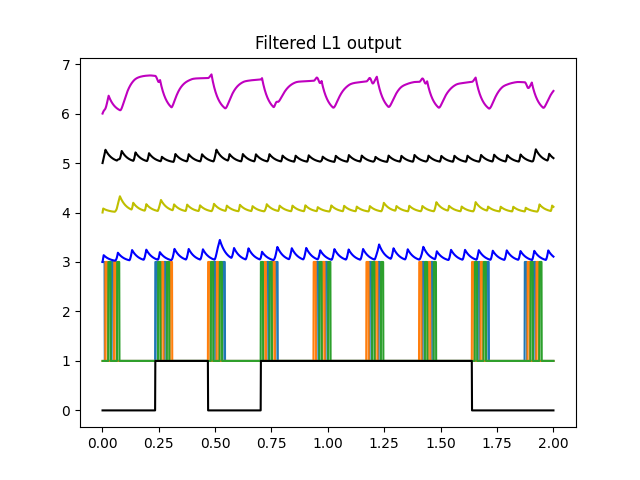
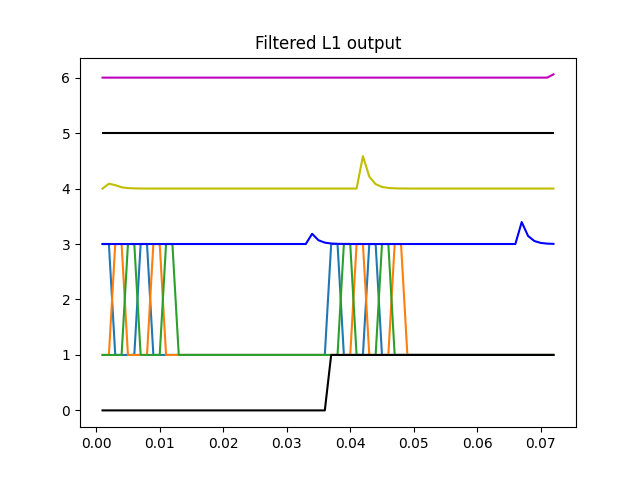
learning

diff --git a/three-layers-feedback.py b/three-layers-feedback.py
@@ -16,7 +16,7 @@ def preset_timing_plot():
     plt.rcdefaults()
     fig, ax = plt.subplots()
     
-    people = ('Sim dt', 'Pulse Time', 'Pulse Spacing', 'Rotation Time', 'Label Time', 'L1 Tau RC', 'L1 Tau Ref', 
+    people = ('Sim dt', 'Pulse Length', 'Pulse Gap', 'Rotation Time', 'Label Time', 'L1 Tau RC', 'L1 Tau Ref', 
     'L2 Tau RC', 
               "L2 Tau Ref", 
               "L3 Tau RC", "L3 Tau REf")
@@ -26,8 +26,8 @@ def preset_timing_plot():
     lbs = [1,2,3,4,5,6,7,8,9,10]
     #performance = 3 + 10 * np.random.rand(len(people))
     performance[0] = sim.dt
-    performance[1] = pt
-    performance[2] = 0.0
+    performance[1] = (pt*pulse_length)
+    performance[2] = (pt*pulse_gap)
     performance[3] = ts*pt
     performance[4] = label_length*pt
     performance[5] = layer1.neuron_type.tau_rc
@@ -43,8 +43,64 @@ def preset_timing_plot():
     ax.invert_yaxis()  # labels read top-to-bottom
     ax.set_xlabel('Time (s)')
     ax.set_title('Preset Timing Parameters')
+    plt.tight_layout() 
+    plt.savefig('fig/preset_timing_parameters/preset_timing_parmeters.png')
 
-    plt.savefig('fig/preset_timing_parameters/preset_timing_parmeters_pt_eq_'+str(pt)[0:4]+'.png')
+def plot_data(q):
+    plt.figure()
+    plt.title("Filtered L1 output")
+    # print(np.shape(sim.data[p_recall][test][0:,0:1]), np.shape(sim.data[p_values][test][0:,0:1]))
+    # plt.plot(t, sim.data[p_recall][0:,0:1])# - sim.data[p_values][0:,0:1])
+
+    plt.plot(t, sim.data[input_probe] + 2)
+    plt.plot(t, sim.data[p_keys] + 0, color="black")
+    print(np.shape(sim.data[filteredl1]))
+    plt.plot(t, sim.data[filteredl1][0:, 0:1] + 3, color="b")
+    plt.plot(t, sim.data[filteredl1][0:, 1:2] + 4, color="y")
+    plt.plot(t, sim.data[filteredl1][0:, 2:3] + 5, color="k")
+    plt.plot(t, sim.data[filteredl1][0:, 3:4] + 6, color="m")
+    plt.savefig('fig/3layersfeedbck_neuronsl1_4.png')
+    #    plt.plot(t, sim.data[filtered][0:, 4:5] + 7, color="r")
+    #    plt.plot(t, sim.data[filtered][0:, 5:6] + 8, color="g")
+    #    plt.plot(t, sim.data[filtered][0:, 6:7] + 9, color="#aabbcc")
+    plt.close()
+    plt.figure()
+    plt.title("Filtered L2 output")
+    # print(np.shape(sim.data[p_recall][test][0:,0:1]), np.shape(sim.data[p_values][test][0:,0:1]))
+    # plt.plot(t, sim.data[p_recall][0:,0:1])# - sim.data[p_values][0:,0:1])
+    plt.plot(t, sim.data[input_probe] + 2)
+    plt.plot(t, sim.data[p_keys] + 0, color="black")
+    print(np.shape(sim.data[filteredl2]))
+    plt.plot(t, sim.data[filteredl2][0:, 0:1] + 3, color="b")
+    plt.plot(t, sim.data[filteredl2][0:, 1:2] + 4, color="y")
+    plt.plot(t, sim.data[filteredl2][0:, 2:3] + 5, color="k")
+    plt.plot(t, sim.data[filteredl2][0:, 3:4] + 6, color="m")
+    plt.plot(t, sim.data[filteredl2][0:, 4:5] + 7, color="r")
+    plt.plot(t, sim.data[filteredl2][0:, 5:6] + 8, color="g")
+    plt.savefig('fig/3layersfeedbck_neuronsl2_6.png')
+    plt.close()
+    plt.figure()
+    plt.title("Filtered L3 output")
+
+    plt.plot(t, sim.data[p_keys] + 0, color="black")
+    plt.plot(t, sim.data[input_probe] + 2)
+    print(np.shape(sim.data[filteredl2]))
+    plt.plot(t, sim.data[filteredl2][0:, 0:1] + 3, color="b")
+    plt.plot(t, sim.data[filteredl2][0:, 1:2] + 4, color="y")
+    plt.savefig('fig/3layersfeedbck_neuronsl3_2_search'+q+'.png')
+    #plt.show()
+
+    plt.clf()
+    plt.close()
+    plt.figure()
+    time_input_signal = t <= (pt*ts*(pulse_length+pulse_gap))
+    plt.title("single timesteps of input")
+    plt.plot(t[time_input_signal],sim.data[input_probe][time_input_signal][0: , 0:1], color="blue")
+    plt.plot(t[time_input_signal],sim.data[input_probe][time_input_signal][0: , 1:2]+2.1, color="green")
+    plt.plot(t[time_input_signal],sim.data[input_probe][time_input_signal][0: , 2:3] + 4.2 , color="orange")
+    plt.savefig('fig/inputTiming.png')
+
+    plt.close()
 
 def phase_automata_fractional_pulse(driving_symbol='0', number_of_symbols=3, id_of_starting_symbol=0, timesteps=9,
                    probability_of_transition=False,pulse_length=100,pulse_gap=100):
@@ -55,9 +111,9 @@ def phase_automata_fractional_pulse(driving_symbol='0', number_of_symbols=3, id_
     while i < (timesteps*(pulse_length+pulse_gap)):
         u = True
         j = 0
-        print("i",i)
+#        print("i",i)
         while j < number_of_symbols:
-            print("j",j)
+ #           print("j",j)
             if state == j and u:
                 mu, sigma = 1, 0.5  # mean and standard deviation
                 if probability_of_transition:
@@ -75,12 +131,12 @@ def phase_automata_fractional_pulse(driving_symbol='0', number_of_symbols=3, id_
                     # print('passing to state ', state, 'driving symbol ', driving_symbol)
                     k = 0
                     while k < pulse_length:
-                        print("k",k)
+                        #print("k",k)
                         code[j][i+k] = 1
                         k += 1
 
                     while k < (pulse_length+pulse_gap):
-                        print("k",k)
+                        #print("k",k)
                         code[j][i+k] = -1.0
                         k += 1
                     u = False
@@ -93,14 +149,14 @@ def phase_automata_fractional_pulse(driving_symbol='0', number_of_symbols=3, id_
     return code, ending_state
 
 
-reseed = 91332 #91323 #91280 #91274 # 91264 # 91254  # 91273
+reseed = 9166#8 #91521 #91427 #91377 #91362 #91332 #91323 #91280 #91274 # 91264 # 91254  # 91273
 good = False
-number_of_samples = 12
+number_of_samples = 2
 ts = 6  # number of possible transitions to hold a driving symbol constant for.
 pb = False
 pt = 3e-3 # seconds to present each step of input
-pulse_length = 20
-pulse_gap = 3
+pulse_length = 2
+pulse_gap = 0
 label_length = ts * 3 * (pulse_length+pulse_gap)# In Timesteps, multiply by dt to get actual length of time
 padded_zeros = np.zeros((3, ts * 2 * (pulse_length+pulse_gap)), dtype=float)
 padded_zeros = padded_zeros - 1.0
@@ -131,16 +187,16 @@ plt.plot(t,bothLabels+2.0,color="black",label="label")
 plt.legend()
 plt.savefig("fig/input_pattern_example_probTran_"+str(pb)+"_padded_zeros_true.png")
 
+plot_now = True
 w = 0
 while i < number_of_samples:
-    print(bitstring[w])
     threeChannelsOF, end_channel = phase_automata_fractional_pulse(driving_symbol=bitstring[w], probability_of_transition=pb, 
-                                                                  timesteps=ts,pulse_length=pulse_length,pulse_gap=pulse_gap)
+                                                                  timesteps=ts,id_of_starting_symbol=np.random.randint(0, 3),pulse_length=pulse_length,pulse_gap=pulse_gap)
     threeChannels = np.concatenate((threeChannelsOF, padded_zeros), axis=1)
     if (bitstring[w] == "0"):
-        labels0or1 = np.zeros((ts * 3, 1), dtype=float)
+        labels0or1 = np.zeros((label_length, 1), dtype=float)
     else:
-        labels0or1 = np.ones((ts * 3, 1), dtype=float)
+        labels0or1 = np.ones((label_length, 1), dtype=float)
     w += 1
     w  = w % len(bitstring)
 
@@ -162,29 +218,42 @@ while not good:
     num_neurons_l2 = 6
     num_neurons_l3 = 2
     with model:
+        ntr = Uniform(7e-2,4e-3).sample(1)[0]
+        ntrc = Uniform(1e-2,4e-3).sample(1)[0]
+        l2_ntr = Uniform(1e-2,4e-3).sample(1)[0]
+        l2_ntrc = Uniform(1e-1,4e-3).sample(1)[0]
+        l3_ntr = Uniform(1e-2,4e-3).sample(1)[0]
+        l3_ntrc = Uniform(1e-2,1e-3).sample(1)[0]
+        # ntr= 0.04857797742868027
+        # ntrc= 0.005298126253483592
+        # l2_ntr= 0.07872599281604377
+        # l2_ntrc= 0.004172924890959869
+        # l3_ntr= 0.008004251267465179
+        # l3_ntrc= 0.0015320812730265365
         layer1 = nengo.Ensemble(
             num_neurons_l1,  # Number of neurons
             dimensions=3,  # each neuron is connected to all (3) input channels.
             # Set intercept to 0.5
-            neuron_type=nengo.LIF(min_voltage=0, tau_ref=5e-2, tau_rc=1e-2),  # Specify type of neuron
-            max_rates=Uniform(1 / 6e-2, 1 / 6e-2),  # Set the maximum firing rate of the neuron 500Mhz
+            neuron_type=nengo.LIF(min_voltage=0, tau_ref=ntr, tau_rc=ntrc),  # Specify type of neuron
+            max_rates=Uniform(1 / (ntr+sim.dt), 1 / (ntr+sim.dt)),  # Set the maximum firing rate of the neuron 500Mhz
         )
-
+        
         layer2 = nengo.Ensemble(
             num_neurons_l2,  # Number of neurons
             dimensions=3,
             # Set intercept to 0.5
-            neuron_type=nengo.LIF(min_voltage=0, tau_ref=5e-2, tau_rc=1e-2),  # Specify type of neuron
-            max_rates=Uniform(1 / 6e-2, 1 / 6e-2),  # Set the maximum firing rate of the neuron 500Mhz
+            neuron_type=nengo.LIF(min_voltage=0, tau_ref=l2_ntr, tau_rc=l2_ntrc),  # Specify type of neuron
+            max_rates=Uniform(1 / (l2_ntr+sim.dt), 1 / (l2_ntr+sim.dt)),  # Set the maximum firing rate of the neuron 500Mhz
         )
 
         layer3 = nengo.Ensemble(
             num_neurons_l3,  # Number of neurons
             dimensions=3,
             # Set intercept to 0.5
-            neuron_type=nengo.LIF(min_voltage=0, tau_ref=5e-1, tau_rc=1e-1),  # Specify type of neuron
-            max_rates=Uniform(1 / 6e-1, 1 / 6e-1),  # Set the maximum firing rate of the neuron 500Mhz
+            neuron_type=nengo.LIF(min_voltage=0, tau_ref=l3_ntr, tau_rc=l3_ntrc),  # Specify type of neuron
+            max_rates=Uniform(1 / (l3_ntr+sim.dt), 1 / (l3_ntr+sim.dt)),  # Set the maximum firing rate of the neuron 500Mhz
         )
+        
 
 
     with model:
@@ -193,12 +262,14 @@ while not good:
 
     with model:
         nengo.Connection(input_signal, layer1, synapse=None,label="input signals to layer 1")
-        nengo.Connection(layer1, layer2, synapse=1e-1, label="layer 1 to layer2")
-        nengo.Connection(layer2, layer1, synapse=ts*1e-1, label="layer 2 to layer 1")
-        conn = nengo.Connection(layer2, layer3, synapse=1e-2, label="layer 2 to layer 3")
-        nengo.Connection(layer3, layer2, synapse=ts*1e-1, label="layer3 to layer2")
+        ff = Uniform(1e-1,1e-3).sample(1)[0]
+        fb = Uniform(1e-1,2e-3).sample(1)[0]
+        nengo.Connection(layer1, layer2, synapse=ff, label="layer 1 to layer2")
+        nengo.Connection(layer2, layer1, synapse=fb, label="layer 2 to layer 1")
+        conn = nengo.Connection(layer2, layer3, synapse=ff, label="layer 2 to layer 3")
+        nengo.Connection(layer3, layer2, synapse=fb, label="layer3 to layer2")
 
-    simT = 1
+    simT = label_length*sim.dt*2
     with model:
         input_probe = nengo.Probe(input_signal)  # The original input
         spikes = nengo.Probe(layer1.neurons)  # Raw spikes from each neuron
@@ -206,9 +277,9 @@ while not good:
         
         #voltage = nengo.Probe(layer1.neurons, 'voltage')
         # Spikes filtered by a 10ms post-synaptic filter
-        filteredl1 = nengo.Probe(layer1.neurons, 'voltage', synapse=3e-2)
-        filteredl2 = nengo.Probe(layer2.neurons, 'voltage', synapse=3e-2)
-        filteredl3 = nengo.Probe(layer3.neurons, 'voltage', synapse=3e-2)
+        filteredl1 = nengo.Probe(layer1.neurons, 'voltage', synapse=1e-3)
+        filteredl2 = nengo.Probe(layer2.neurons, 'voltage', synapse=1e-3)
+        filteredl3 = nengo.Probe(layer3.neurons, 'voltage', synapse=1e-3)
         
         # Setup probes
         p_keys = nengo.Probe(input_keys, synapse=None, label="p_keys")
@@ -230,84 +301,63 @@ while not good:
     # plt.title("Value Error During Training")
     # plt.plot(t[train], sim.data[p_error][train])
     # plt.show()
+    #plot_data()
 
-    plt.figure()
-    plt.title("Filtered L1 output")
-    # print(np.shape(sim.data[p_recall][test][0:,0:1]), np.shape(sim.data[p_values][test][0:,0:1]))
-    # plt.plot(t, sim.data[p_recall][0:,0:1])# - sim.data[p_values][0:,0:1])
-
-    plt.plot(t, sim.data[input_probe] + 2)
-    plt.plot(t, sim.data[p_keys] + 0, color="black")
-    print(np.shape(sim.data[filteredl1]))
-    plt.plot(t, sim.data[filteredl1][0:, 0:1] + 3, color="b")
-    plt.plot(t, sim.data[filteredl1][0:, 1:2] + 4, color="y")
-    plt.plot(t, sim.data[filteredl1][0:, 2:3] + 5, color="k")
-    plt.plot(t, sim.data[filteredl1][0:, 3:4] + 6, color="m")
-    plt.savefig('fig/3layersfeedbck_neuronsl1_4.png')
-    #    plt.plot(t, sim.data[filtered][0:, 4:5] + 7, color="r")
-    #    plt.plot(t, sim.data[filtered][0:, 5:6] + 8, color="g")
-    #    plt.plot(t, sim.data[filtered][0:, 6:7] + 9, color="#aabbcc")
-
-    plt.figure()
-    plt.title("Filtered L2 output")
-    # print(np.shape(sim.data[p_recall][test][0:,0:1]), np.shape(sim.data[p_values][test][0:,0:1]))
-    # plt.plot(t, sim.data[p_recall][0:,0:1])# - sim.data[p_values][0:,0:1])
-    plt.plot(t, sim.data[input_probe] + 2)
-    plt.plot(t, sim.data[p_keys] + 0, color="black")
-    print(np.shape(sim.data[filteredl2]))
-    plt.plot(t, sim.data[filteredl2][0:, 0:1] + 3, color="b")
-    plt.plot(t, sim.data[filteredl2][0:, 1:2] + 4, color="y")
-    plt.plot(t, sim.data[filteredl2][0:, 2:3] + 5, color="k")
-    plt.plot(t, sim.data[filteredl2][0:, 3:4] + 6, color="m")
-    plt.plot(t, sim.data[filteredl2][0:, 4:5] + 7, color="r")
-    plt.plot(t, sim.data[filteredl2][0:, 5:6] + 8, color="g")
-    plt.savefig('fig/3layersfeedbck_neuronsl2_6.png')
-
-    plt.figure()
-    plt.title("Filtered L3 output")
-
-    plt.plot(t[test], sim.data[p_keys][test] + 0, color="black")
-    plt.plot(t[test], sim.data[input_probe][test] + 2)
-    print(np.shape(sim.data[filteredl2]))
-    plt.plot(t[test], sim.data[filteredl2][test][0:, 0:1] + 3, color="b")
-    plt.plot(t[test], sim.data[filteredl2][test][0:, 1:2] + 4, color="y")
-    plt.savefig('fig/3layersfeedbck_neuronsl3_2_'+str(reseed)+'.png')
-
-    plt.clf()
-
-    plt.figure()
-    time_input_signal = t <= (pt*ts*(pulse_length+pulse_gap))
-    plt.title("single timesteps of input")
-    plt.plot(t[time_input_signal],sim.data[input_probe][time_input_signal][0: , 0:1], color="blue")
-    plt.plot(t[time_input_signal],sim.data[input_probe][time_input_signal][0: , 1:2]+2.1, color="green")
-    plt.plot(t[time_input_signal],sim.data[input_probe][time_input_signal][0: , 2:3] + 4.2 , color="orange")
-    plt.savefig('fig/inputTiming.png')
     i = 0
-
-    best_neuron_value = np.sum((sim.data[filteredl3][0:, 0:0 + 1]+1.0) - (sim.data[p_keys]*2.0))
-    print(best_neuron_value)
-    best_neuron_index = 0
+    best_neuron_valueA = np.abs(np.sum(sim.data[filteredl3][train][0:, 0:0 + 1] - (sim.data[p_keys][train])))
+    #print(best_neuron_valueA)
+    best_neuron_valueB = np.abs(np.sum(sim.data[filteredl3][test][0:, 0:0 + 1] - (sim.data[p_keys][test])))
+    #print(best_neuron_valueB)
+    best_neuron_indexA = 0
+    best_neuron_indexB = 0
     while i < num_neurons_l3:
-        print(i, "sim.data[filteredl3]+1", sim.data[filteredl3][0:, i:i + 1]+1.0 , "sim.data[p_keys]*2 ", (sim.data[p_keys]*2.0) )
-        for e in sim.data[p_keys]:
-            for el in e:
-                print (el)
-        sum = np.sum((sim.data[filteredl3][0:, i:i + 1]+1.0) - (sim.data[p_keys]*2.0))
-        # print(i, sum)
+        #print(i, "sim.data[filteredl3]", np.sum(sim.data[filteredl3][0:, i:i + 1]) , "sim.data[p_keys] ", np.sum(sim.data[p_keys]) )
+        sumA = np.abs(np.sum(sim.data[p_keys][train]) - np.sum(sim.data[filteredl3][train][0:, i:i + 1] ))
+        #print("train",i, sumA)
+        sumB = np.abs(np.sum(sim.data[p_keys][test]) - np.sum(sim.data[filteredl3][test][0:, i:i + 1] ))
+        #print("test",i, sumB)
 
-        if (sum < best_neuron_value):
-            best_neuron_index = i
-            best_neuron_value = sum
-        print(best_neuron_value, best_neuron_index, reseed)
+        if sumA < 20:
+            best_neuron_indexA = i
+            best_neuron_valueA = sumA
+            #best_neuron_indexB = i
+            #best_neuron_valueB = sumB
+
+        if sumB < 20:
+            #best_neuron_indexA = i
+            #best_neuron_valueA = sumA
+            best_neuron_indexB = i
+            best_neuron_valueB = sumB
+
+        print(best_neuron_valueA, best_neuron_indexA, best_neuron_valueB, best_neuron_indexB, reseed)
         i += 1
-    if (np.abs(best_neuron_value) < 20):
-        good = True
+
+    if (best_neuron_valueA < 20):
+        #print("here")
+        if (best_neuron_valueB < 20):
+         #   print("now")
+            if(best_neuron_indexA == best_neuron_indexB):
+          #      print("here")
+                #good = True
+                print("ntr=",ntr,
+                "\nntrc=",ntrc,
+                "\nl2_ntr=",l2_ntr,
+                "\nl2_ntrc=",l2_ntrc,
+                "\nl3_ntr=",l3_ntr,
+                "\nl3_ntrc=",l3_ntrc,
+                "\nff=",ff,
+                "\nfb=",fb)
+                print(best_neuron_valueA, best_neuron_indexA, best_neuron_valueB, best_neuron_indexB, reseed)
+                plot_data(str(reseed))
+            else:
+                reseed += 1
+        else:
+            reseed += 1
     else:
-        pt += 1e-3
-    #    reseed += 1
+        reseed += 1
 
     #preset_timing_plot()    
-    good = True
+    #good = True
 
 plt.figure()
 plt.title("Filtered output")
@@ -315,7 +365,8 @@ plt.title("Filtered output")
 # plt.plot(t, sim.data[p_recall][0:,0:1])# - sim.data[p_values][0:,0:1])
 plt.plot(t, sim.data[p_keys] + 0, color="g")
 plt.plot(t, sim.data[input_probe] + 2)
-plt.plot(t, sim.data[filteredl3][0:, best_neuron_index:best_neuron_index + 1] + 3, color="black")
+plt.plot(t, sim.data[filteredl3][0:, best_neuron_indexA:best_neuron_indexA + 1] + 3, color="black")
+plt.plot(t, sim.data[filteredl3][0:, best_neuron_indexB:best_neuron_indexB + 1] + 5, color="gray")
 #plt.savefig('fig/3layersfeedbck_best_neuron_index_l3.png')
 
 
@@ -346,6 +397,7 @@ plt.title("Learned Filtered output")
 plt.plot(t, sim.data[error_values],color="red")
 plt.plot(t, sim.data[p_keys] + 0, color="g")
 plt.plot(t, sim.data[input_probe] + 2)
-plt.plot(t, sim.data[filteredl3][0:, best_neuron_index:best_neuron_index + 1] + 3, color="black")
+plt.plot(t, sim.data[filteredl3][0:, best_neuron_indexA:best_neuron_indexA + 1] + 3, color="black")
+plt.plot(t, sim.data[filteredl3][0:, best_neuron_indexB:best_neuron_indexB + 1] + 5, color="gray")
 
 #plt.savefig('fig/3layersfeedbck_best_neuron_index_l3_learned.png')
